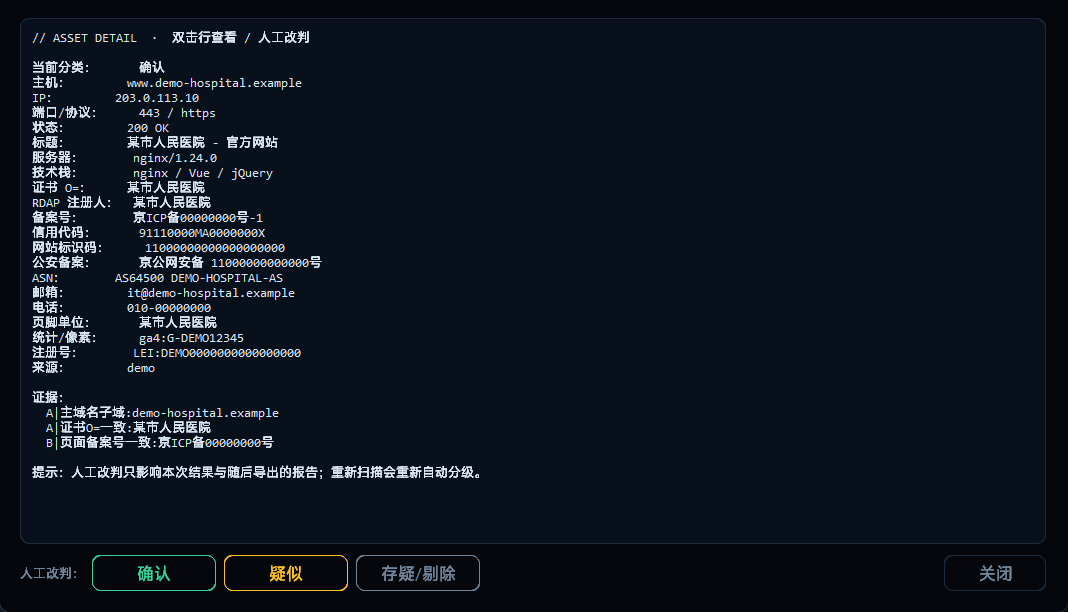
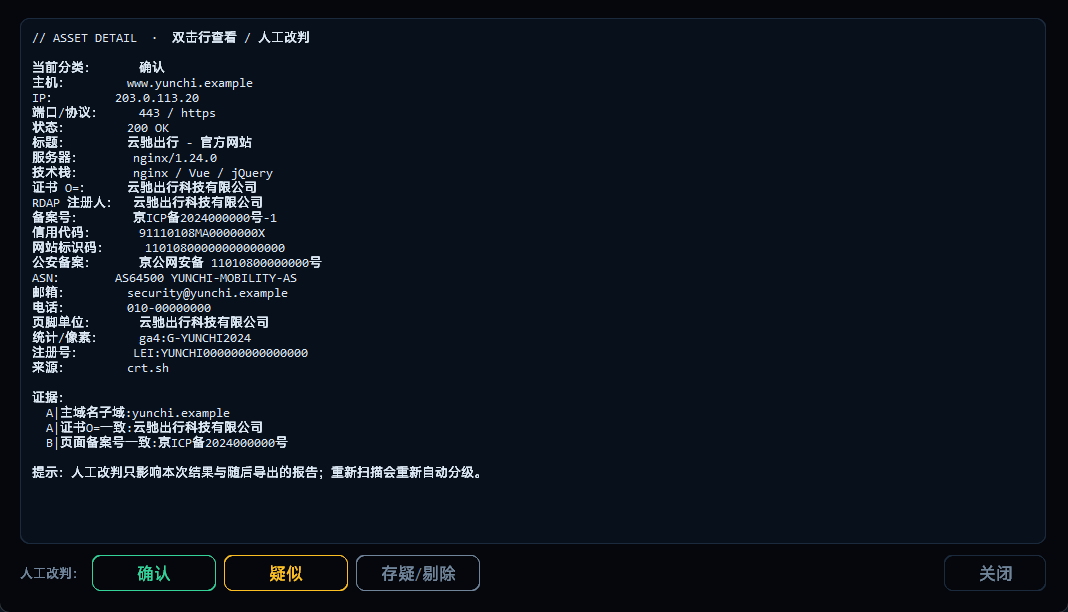
docs: 截图改为 SRC 厂商演示场景（虚构出行科技公司），宣传稿补充 SRC 用法

diff --git a/packaging/_make_screenshots.py b/packaging/_make_screenshots.py
@@ -25,67 +25,81 @@ def fake_engine():
         out=tempfile.mkdtemp(prefix="cc_demo_"),
         output_formats="html"))
     rows = [
-        ("www.demo-hospital.example", 443, "https", "确认",
-         "某市人民医院 - 官方网站", "203.0.113.10",
-         ["A|主域名子域:demo-hospital.example", "A|证书O=一致:某市人民医院",
-          "B|页面备案号一致:京ICP备00000000号"],
-         {"beian": "京ICP备00000000号-1", "cert_org": "某市人民医院",
-          "rdap_org": "某市人民医院", "asn": "AS64500",
-          "asn_org": "DEMO-HOSPITAL-AS",
-          "emails": {"it@demo-hospital.example"},
+        ("www.yunchi.example", 443, "https", "确认",
+         "云驰出行 - 官方网站", "203.0.113.20",
+         ["A|主域名子域:yunchi.example", "A|证书O=一致:云驰出行科技有限公司",
+          "B|页面备案号一致:京ICP备2024000000号"],
+         {"beian": "京ICP备2024000000号-1", "cert_org": "云驰出行科技有限公司",
+          "rdap_org": "云驰出行科技有限公司", "asn": "AS64500",
+          "asn_org": "YUNCHI-MOBILITY-AS",
+          "emails": {"security@yunchi.example"},
           "phones": {"010-00000000"},
-          "authorities": {"某市人民医院"},
-          "trackings": {"ga4:G-DEMO12345"},
-          "verify_tokens": {"google:demo-verification-token"},
-          "credit_code": "91110000MA0000000X",
-          "site_code": "11000000000000000000",
-          "police_beian": "京公网安备 11000000000000号",
-          "registry_ids": {"LEI:DEMO0000000000000000"},
-          "refs": {"his.demo-hospital.example", "reg.demo-hospital.example"},
+          "authorities": {"云驰出行科技有限公司"},
+          "trackings": {"ga4:G-YUNCHI2024"},
+          "verify_tokens": {"google:yunchi-demo-token"},
+          "credit_code": "91110108MA0000000X",
+          "site_code": "11010800000000000000",
+          "police_beian": "京公网安备 11010800000000号",
+          "registry_ids": {"LEI:YUNCHI000000000000000"},
+          "refs": {"src.yunchi.example", "open.yunchi.example"},
           "server": "nginx/1.24.0",
           "tech": "nginx / Vue / jQuery",
-          "title": "某市人民医院 - 官方网站"}),
-        ("his.demo-hospital.example", 443, "https", "确认",
-         "HIS 医院信息系统", "203.0.113.11",
-         ["A|主域名子域:demo-hospital.example", "B|联系邮箱一致:it@demo-hospital.example"],
-         {"emails": {"it@demo-hospital.example"}, "title": "HIS 医院信息系统"}),
-        ("reg.demo-hospital.example", 443, "https", "确认",
-         "预约挂号平台", "203.0.113.12",
-         ["A|证书O=一致:某市人民医院", "B|页脚主办/版权单位一致:某市人民医院"],
-         {"authorities": {"某市人民医院"}, "title": "预约挂号平台"}),
-        ("oa.demo-hospital.example", 8443, "https", "疑似",
-         "OA 办公系统 - 登录", "203.0.113.13",
-         ["B|平台domain命中(待核)", "C|同锚点IP:203.0.113.13"],
-         {"title": "OA 办公系统 - 登录"}),
-        ("test.demo-hospital.example", 443, "https", "疑似",
-         "测试环境", "203.0.113.14",
-         ["B|统计/像素ID一致:ga4:G-DEMO12345"],
-         {"trackings": {"ga4:G-DEMO12345"}, "title": "测试环境"}),
-        ("vpn.demo-hospital.example", 443, "https", "疑似",
-         "SSL VPN", "203.0.113.15",
-         ["C|平台IP命中:203.0.113.15"],
-         {"title": "SSL VPN"}),
-        ("old.demo-hospital.example", 80, "http", "存疑",
-         "站点已迁移", "203.0.113.16",
+          "source": "crt.sh",
+          "title": "云驰出行 - 官方网站"}),
+        ("src.yunchi.example", 443, "https", "确认",
+         "云驰安全应急响应中心", "203.0.113.21",
+         ["A|主域名子域:yunchi.example", "A|证书O=一致:云驰出行科技有限公司",
+          "B|统计/像素ID一致:ga4:G-YUNCHI2024"],
+         {"cert_org": "云驰出行科技有限公司", "trackings": {"ga4:G-YUNCHI2024"},
+          "source": "crt.sh", "title": "云驰安全应急响应中心"}),
+        ("open.yunchi.example", 443, "https", "确认",
+         "云驰开放平台 - 开发者中心", "203.0.113.22",
+         ["A|主域名子域:yunchi.example", "B|页脚主办/版权单位一致:云驰出行科技有限公司"],
+         {"authorities": {"云驰出行科技有限公司"}, "source": "搜索引擎",
+          "title": "云驰开放平台 - 开发者中心"}),
+        ("api.yunchi.example", 443, "https", "确认",
+         "云驰开放 API 网关", "203.0.113.23",
+         ["A|证书O=一致:云驰出行科技有限公司", "B|联系邮箱一致:security@yunchi.example"],
+         {"cert_org": "云驰出行科技有限公司",
+          "emails": {"security@yunchi.example"}, "source": "httpx",
+          "title": "云驰开放 API 网关"}),
+        ("sso.yunchi.example", 443, "https", "疑似",
+         "统一身份认证 - 登录", "203.0.113.24",
+         ["B|平台domain命中(待核)", "C|同锚点IP:203.0.113.24"],
+         {"source": "FOFA", "title": "统一身份认证 - 登录"}),
+        ("jenkins.yunchi.example", 8080, "http", "疑似",
+         "Jenkins", "203.0.113.25",
+         ["B|统计/像素ID一致:ga4:G-YUNCHI2024", "C|平台IP命中:203.0.113.25"],
+         {"trackings": {"ga4:G-YUNCHI2024"}, "source": "FOFA",
+          "title": "Jenkins"}),
+        ("gitlab.yunchi.example", 443, "https", "疑似",
+         "GitLab", "203.0.113.26",
+         ["C|平台IP命中:203.0.113.26"],
+         {"source": "Hunter", "title": "GitLab"}),
+        ("test.yunchi.example", 443, "https", "疑似",
+         "预发布环境", "203.0.113.27",
+         ["B|平台domain命中(待核)"],
+         {"source": "DayDayMap", "title": "预发布环境"}),
+        ("vpn.yunchi.example", 443, "https", "存疑",
+         "SSL VPN", "203.0.113.28",
          [],
          {"reject_reason": "无任何关联证据"}),
-        ("cdn.demo-hospital.example", 443, "https", "存疑",
-         "CDN 节点", "203.0.113.17",
+        ("cdn.yunchi.example", 443, "https", "存疑",
+         "CDN 节点", "203.0.113.29",
          [],
          {"reject_reason": "第三方云/CDN资源，且无强关联证据"}),
-        ("mail.demo-hospital.example", 443, "https", "存疑",
-         "Webmail", "203.0.113.18",
+        ("mail.yunchi.example", 443, "https", "存疑",
+         "企业邮箱", "203.0.113.30",
          [],
          {"reject_reason": "无任何关联证据"}),
-        ("demo-hospital.example", 443, "https", "确认",
-         "某市人民医院", "203.0.113.10",
-         ["A|证书O=一致:某市人民医院", "A|页面备案号一致:京ICP备00000000号"],
-         {"cert_org": "某市人民医院", "beian": "京ICP备00000000号-1",
-          "rdap_org": "某市人民医院", "asn": "AS64500",
-          "asn_org": "DEMO-HOSPITAL-AS", "title": "某市人民医院"}),
+        ("old.yunchi.example", 80, "http", "存疑",
+         "站点已迁移", "203.0.113.31",
+         [],
+         {"reject_reason": "无任何关联证据"}),
     ]
     for host, port, scheme, conf, title, ip, ev, extra in rows:
         a = e.add_asset(host, port, scheme, source="demo")
+        a.source = {extra.get("source", "crt.sh")}
         a.confidence = conf
         a.title = title
         a.ip = ip
@@ -109,17 +123,17 @@ def fake_engine():
         a.authorities.update(extra.get("authorities") or set())
         a.trackings.update(extra.get("trackings") or set())
         a.findings.update({".git 目录可访问|敏感路径", "Swagger 接口文档|敏感路径"}
-                          if "oa." in host else set())
+                          if host.startswith("jenkins.") else set())
     # 让图谱有足够的连线：非存疑资产都带 ASN，确认资产带证书 O=
     for a in e.assets.values():
         if a.confidence == "存疑":
             continue
         if not a.asn:
-            a.asn, a.asn_org = "AS64500", "DEMO-HOSPITAL-AS"
+            a.asn, a.asn_org = "AS64500", "YUNCHI-MOBILITY-AS"
         if a.confidence == "确认" and not a.cert_org:
-            a.cert_org = "某市人民医院"
-    e.anchor["orgs"].add("某市人民医院")
-    e.anchor["domains"].add("demo-hospital.example")
+            a.cert_org = "云驰出行科技有限公司"
+    e.anchor["orgs"].add("云驰出行科技有限公司")
+    e.anchor["domains"].add("yunchi.example")
     return e
 
 
@@ -150,7 +164,7 @@ def main():
         pass
     app.deiconify()
     e = fake_engine()
-    app.ent_target.insert(0, "某市人民医院")
+    app.ent_target.insert(0, "云驰出行科技有限公司")
     app._preview_target()
     app._populate_table(e)
     app.tabview.set("资产列表")

diff --git a/docs/csdn-article.md b/docs/csdn-article.md
@@ -74,15 +74,21 @@
 
 ## 三、实际跑起来是什么样？
 
-> 以下为测试环境示例，实际结果受搜索引擎收录、平台配额和目标网络影响。
+> 实际结果受搜索引擎收录、平台配额和目标网络影响。
 
-给一个运营商区县名称，例如"双流电信"：
+SRC 场景是这类工具最典型的用法：补天 / 漏洞盒子上的厂商通常有官网、开放平台、
+SRC 门户、API 网关、测试环境、CI/CD 等一堆分散资产，正好需要先摸清范围再谈测试。
 
-- 纯名称模式：工具先搜索官网候选，再用证书/标题/联系方式互证
-- 有平台 Key：自动追加 domain / cert / ICP / 统计 ID 查询
+下面用**虚构的"云驰出行科技有限公司"**（一家典型开了 SRC 的出行科技公司）演示，
+不展示任何真实厂商的资产清单：
+
+- 纯名称模式：从公司名找官网，再用证书 O=、备案号、联系方式互证
+- 有平台 Key：自动追加 domain / cert / ICP / 统计 ID / favicon 查询
+- SRC 门户、开放平台、API 网关这类子域会被单独标出来，测试环境、Jenkins、
+  GitLab 一类边缘系统进入"疑似"，留人工判断
 - 结果进三份台账，确认清单里的每一条都能点开看"为什么算它的"
 
-> 下面四张截图为**虚构演示数据**（域名、IP、备案号、证书信息均为示例），
+> 下面四张截图为**虚构演示数据**（公司、域名、IP、备案号、证书信息均为示例），
 > 用来说明界面和证据字段，不代表任何真实单位。
 
 **图 1：主界面 —— 输入单位名称，选模式，开始测绘**
